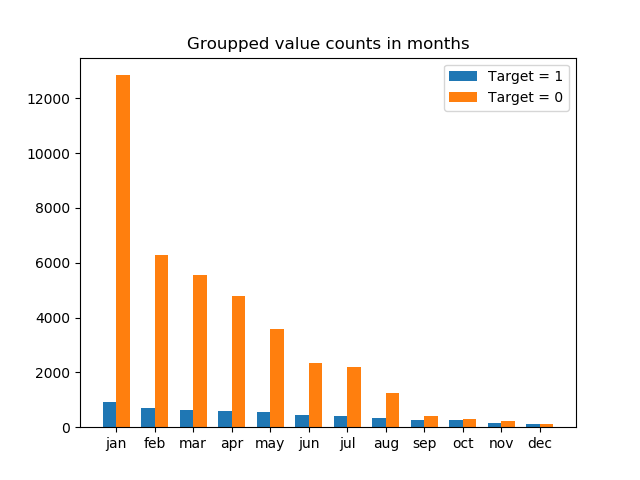
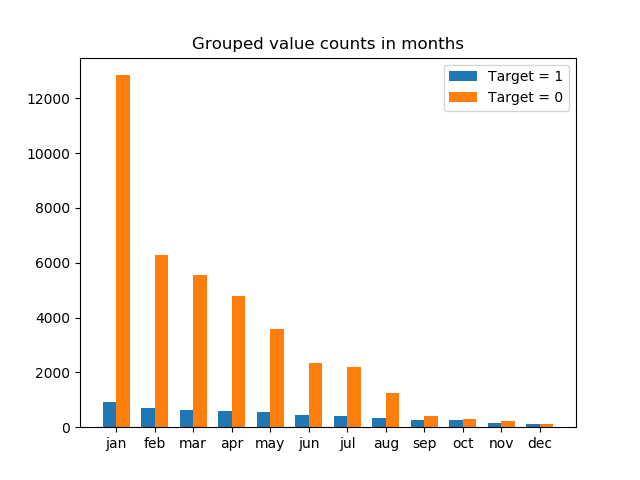
Diagram update

Changed region(s): [[0.2812, 0.0625, 0.75, 0.125]]

diff --git a/index.py b/index.py
@@ -139,7 +139,7 @@ ind = np.arange(12)
 width = 0.35
 ax.bar(ind,train_test_data[0].loc[train_test_data[0]['Target']==1,'Month'].value_counts(),width,label='Target = 1')
 ax.bar(ind+width, train_test_data[0].loc[train_test_data[0]['Target']==0,'Month'].value_counts(),width, label='Target = 0')
-ax.set_title('Groupped value counts in months')
+ax.set_title('Grouped value counts in months')
 ax.set_xticks(ind+width/2)
 ax.set_xticklabels(month_mapping)
 ax.legend()
